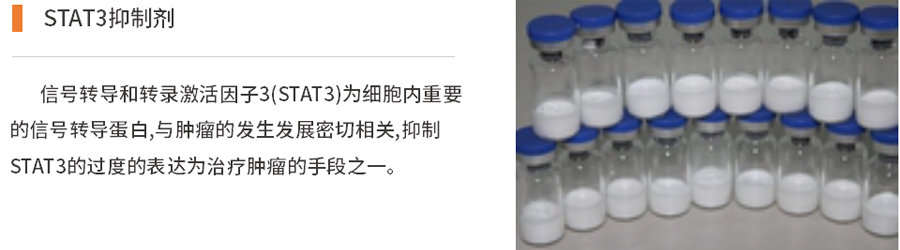
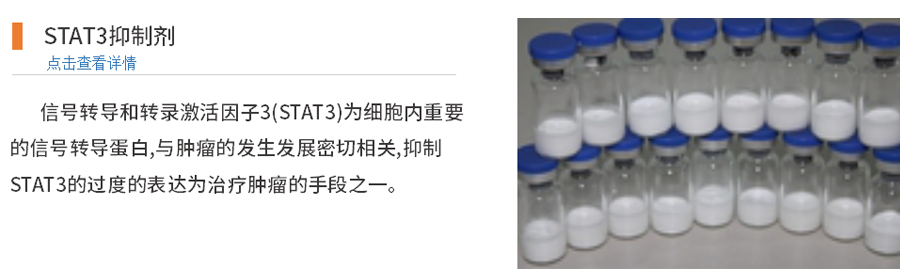
1228xiugai

diff --git a/main/templates/main/products.html b/main/templates/main/products.html
@@ -163,50 +163,15 @@
 
 {#                中心内容#}
                 {% block product %}
-               <div class="container">
-        <div class="row">
-            <div class="col-md-10 col-md-offset-1">
-                <div class="col-md-10 col-md-offset-1">
-                    <div id="carousel-example-generic" class="carousel slide" data-ride="carousel">
-                        <!-- Indicators -->
-                        <ol class="carousel-indicators">
-                            <li data-target="#carousel-example-generic" data-slide-to="0" class="active"></li>
-                            <li data-target="#carousel-example-generic" data-slide-to="1"></li>
-                        </ol>
-
-                        <!-- Wrapper for slides -->
-                        <div class="carousel-inner" role="listbox">
-                            <div class="item active" style="width: ">
-
-                                <img src="{% static "main/image/chanpinfuwu01.png" %}" alt="" class="img-responsive center-block">
-                                <div class="carousel-caption">
-
-                                </div>
-                            </div>
-                            <div class="item">
-                                <img src="{% static "main/image/chanpinfuwu02.png" %}" alt="" class="img-responsive center-block" style="width: 800px">
-                                <div class="carousel-caption">
-
-                                </div>
-
-                            </div>
-                        </div>
-                        </div>
-
-                        <!-- Controls -->
-                        <a class="left carousel-control" href="#carousel-example-generic" role="button" data-slide="prev">
-                            <span class="glyphicon glyphicon-chevron-left" aria-hidden="true"></span>
-                            <span class="sr-only">Previous</span>
-                        </a>
-                        <a class="right carousel-control" href="#carousel-example-generic" role="button" data-slide="next">
-                            <span class="glyphicon glyphicon-chevron-right" aria-hidden="true"></span>
-                            <span class="sr-only">Next</span>
-                        </a>
+                <div class="col-md-10">
+        <!--<img src="{% static "main/image/.png" %}" class="img-responsive center-block">-->
+                    <div class="col-md-7 col-md-offset-1" >
+                        <img src="{% static "main/image/chanpinfuwu01.png" %}" class="img-responsive">
+                    </div>
+                    <div class="col-md-9" >
+                        <img src="{% static "main/image/chanpinfuwu02.png" %}" class="img-responsive">
                     </div>
                 </div>
-            </div>
-        </div>
-    </div>
                         <!--<div class="col-md-12"><br></div>-->
                         <!--<div class="col-md-12"><br></div>-->
                         <!--<div class="col-md-12"><br></div>-->

diff --git a/main/templates/main/jishufuwu.html b/main/templates/main/jishufuwu.html
@@ -29,39 +29,43 @@
 <div class="container">
             <div class="row">
     <div class="col-md-10 ">
-        <div class="col-md-2" >
+        <div class="col-md-12 ">
+        <div class="col-md-3" >
             <a href={% url "main:yinwuhecheng" %}>
             <img src="{% static "main/image/jsfu01.png" %}" class="img-responsive">
         </a>
     </div>
-        <div class="col-md-2" >
-            <a href={% url "main:yinwuhecheng" %}>
+        <div class="col-md-3" >
+            <!--<a href={% url "main:yinwuhecheng" %}>-->
             <img src="{% static "main/image/jsfu02.png" %}" class="img-responsive">
         </a>
     </div>
-        <div class="col-md-2" >
-            <a href={% url "main:yinwuhecheng" %}>
+        <div class="col-md-3" >
+            <!--<a href={% url "main:yinwuhecheng" %}>-->
             <img src="{% static "main/image/jsfu03.png" %}" class="img-responsive">
         </a>
     </div>
-
+        </div>
+      <br>
     </div>
                 <div class="col-md-10 ">
-        <div class="col-md-2" >
-            <a href={% url "main:yinwuhecheng" %}>
+                    <div class="col-md-12 ">
+        <div class="col-md-3" >
+            <!--<a href={% url "main:yinwuhecheng" %}>-->
             <img src="{% static "main/image/jsfu04.png" %}" class="img-responsive">
         </a>
     </div>
-        <div class="col-md-2" >
-            <a href={% url "main:yinwuhecheng" %}>
+        <div class="col-md-3" >
+            <!--<a href={% url "main:yinwuhecheng" %}>-->
             <img src="{% static "main/image/jsfu05.png" %}" class="img-responsive">
         </a>
     </div>
-        <div class="col-md-2" >
-            <a href={% url "main:yinwuhecheng" %}>
+        <div class="col-md-3" >
+            <!--<a href={% url "main:yinwuhecheng" %}>-->
             <img src="{% static "main/image/jsfu06.png" %}" class="img-responsive">
         </a>
     </div>
+                    </div>
 
     </div>
             </div>

diff --git a/main/templates/main/fenzishengwuxuechanpin.html b/main/templates/main/fenzishengwuxuechanpin.html
@@ -26,24 +26,23 @@
 
 {% block product %}
     <div class="col-md-10">
-         <div class="col-md-12" >
+         <div class="col-md-5" >
 
         <a href={% url "main:PCRshiji" %}>
-            <img src="{% static "main/image/pcrshiji1.png" %}" class="img-responsive">
+            <img src="{% static "main/image/pcrshiji001.png" %}" class="img-responsive">
         </a>
     </div>
-        <br>
-        <div class="col-md-12" >
+        <div class="col-md-5" >
 
         <a href={% url "main:fenzikelongyuDNAMarker" %}>
-            <img src="{% static "main/image/fenzikelong1.png" %}" class="img-responsive">
+            <img src="{% static "main/image/fenzikelong001.png" %}" class="img-responsive">
         </a>
         </div>
          <br>
-        <div class="col-md-12" >
+        <div class="col-md-5" >
 
         <a href={% url "main:ganshoutaixibao" %}>
-            <img src="{% static "main/image/ganshoutaixibao1.png" %}" class="img-responsive">
+            <img src="{% static "main/image/ganshoutaixibao001.png" %}" class="img-responsive">
         </a>
 
     </div>

diff --git a/main/templates/main/jiyinjiance.html b/main/templates/main/jiyinjiance.html
@@ -29,14 +29,14 @@
          <div class="col-md-12" >
 
         <a href={% url "main:FDExome" %}>
-            <img src="{% static "main/image/quanjiyinjiance1.png" %}" class="img-responsive">
+            <img src="{% static "main/image/quanjiyinjiance001.png" %}" class="img-responsive">
         </a>
     </div>
         <br>
         <div class="col-md-12" >
 
         <a href={% url "main:FD180" %}>
-            <img src="{% static "main/image/wuchuangjiyinjiance1.png" %}" class="img-responsive">
+            <img src="{% static "main/image/wuchuangjiyinjiance001.png" %}" class="img-responsive">
         </a>
         </div>
 

diff --git a/main/templates/main/shengwuzhiji.html b/main/templates/main/shengwuzhiji.html
@@ -29,7 +29,7 @@
         <div class="col-md-12" >
 
         <a href={% url "main:xibaoyinzi" %}>
-            <img src="{% static "main/image/xibaoyinzi1.png" %}" class="img-responsive">
+            <img src="{% static "main/image/xibaoyinzi001.png" %}" class="img-responsive">
         </a>
         </div>
     </div>
